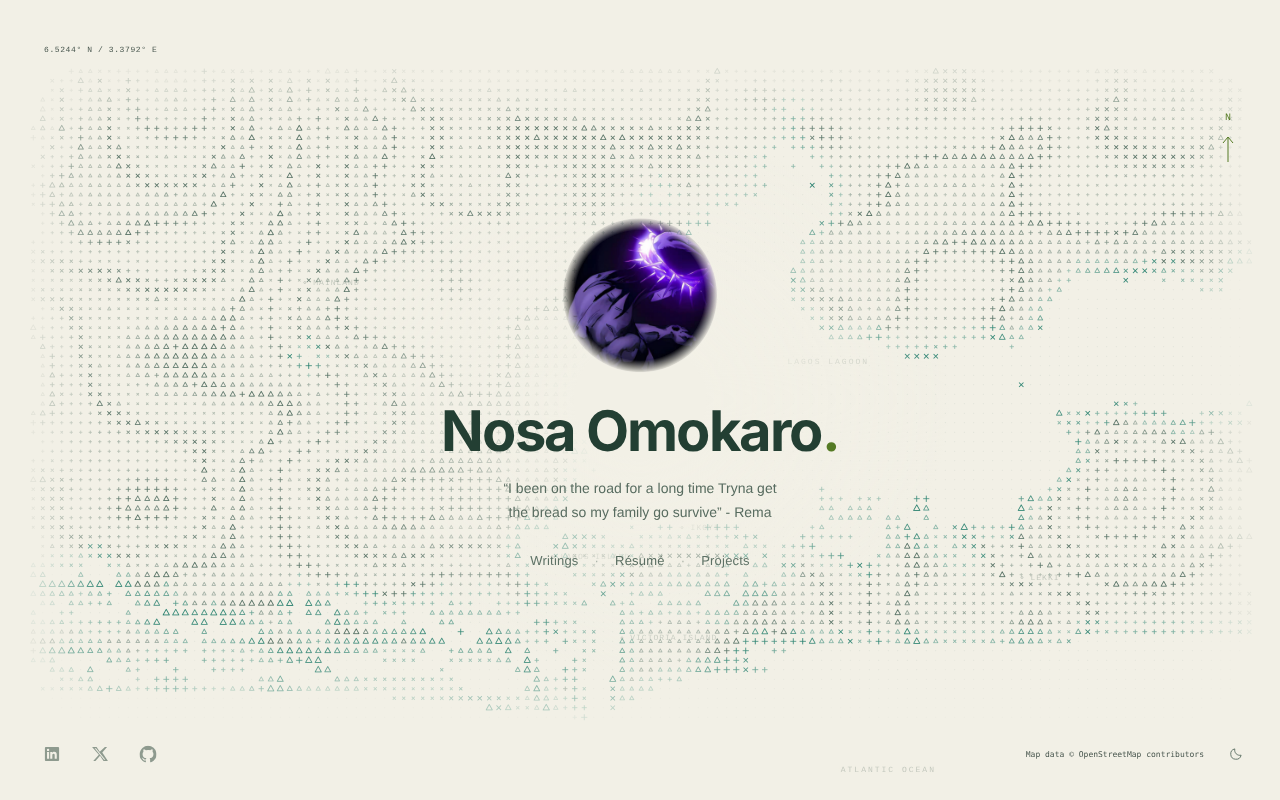
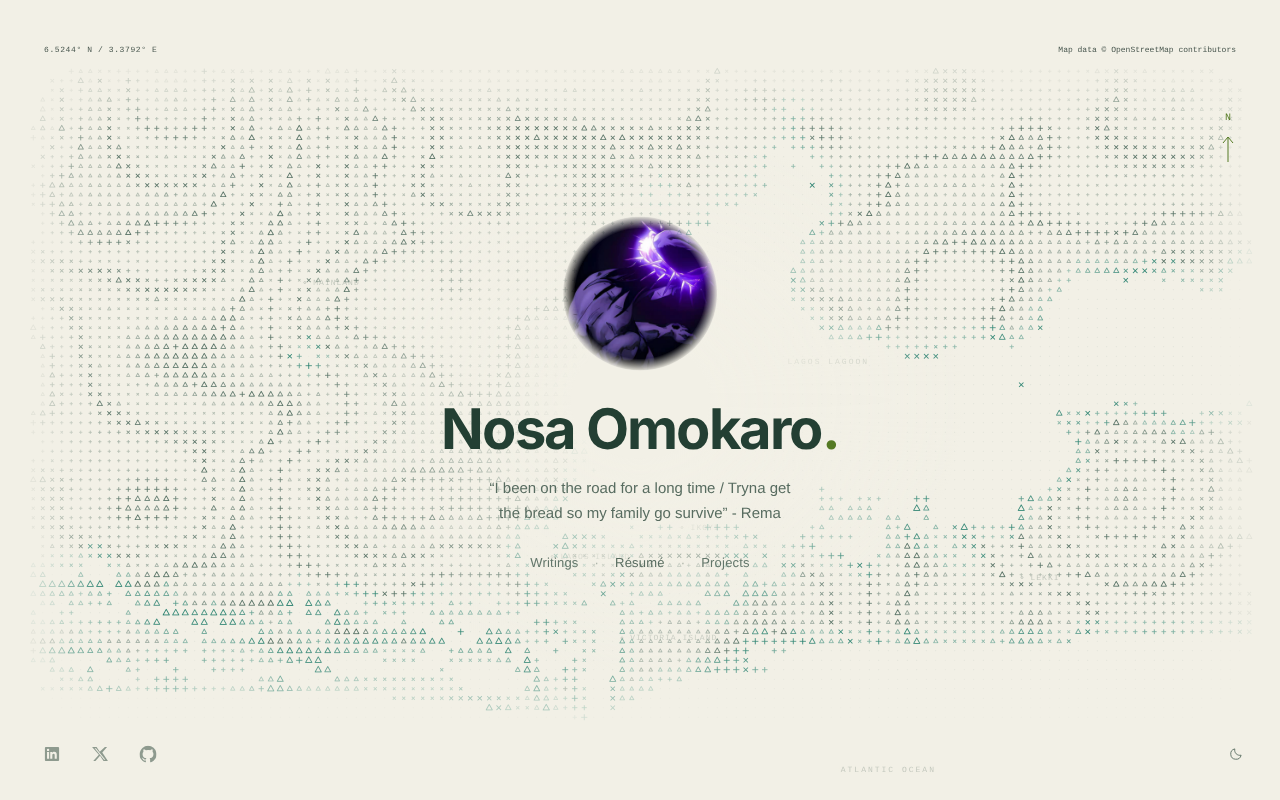
Rotate intros without repeats, hide test content, and reposition attribution

diff --git a/src/lib/intro-cycle.ts b/src/lib/intro-cycle.ts
@@ -1,0 +1,37 @@
+export interface IntroHistory {
+  version: 1;
+  seen: string[];
+  last: string | null;
+}
+
+export const introKey = (text: string) => text.replace(/\s+/g, ' ').trim();
+
+// Keep history by text rather than position so edits, reordering, and new lines
+// do not reset the visitor's progress through the remaining options.
+export function nextIntro(
+  texts: readonly string[],
+  previous: unknown,
+  random: () => number = Math.random,
+): { intro: string | null; history: IntroHistory } {
+  const options = [...new Set(texts.map(introKey).filter(Boolean))];
+  const known = new Set(options);
+  const saved = previous && typeof previous === 'object' && 'version' in previous && previous.version === 1
+    ? previous as Partial<IntroHistory>
+    : {};
+  let seen = Array.isArray(saved.seen)
+    ? [...new Set(saved.seen.filter((text): text is string => typeof text === 'string' && known.has(text)))]
+    : [];
+  const last = typeof saved.last === 'string' && known.has(saved.last) ? saved.last : null;
+  let remaining = options.filter((text) => !seen.includes(text));
+  if (remaining.length === 0) {
+    seen = [];
+    remaining = options;
+  }
+  // The final line of one round must not immediately open the next round.
+  const candidates = remaining.length > 1 ? remaining.filter((text) => text !== last) : remaining;
+  const intro = candidates[Math.floor(random() * candidates.length)] ?? null;
+  return {
+    intro,
+    history: { version: 1, seen: intro ? [...seen, intro] : seen, last: intro },
+  };
+}

diff --git a/README.md b/README.md
@@ -8,7 +8,7 @@ Pluses, crosses, triangles, and dots replace conventional map fills and contour 
 Requires Node 22.12+ and pnpm 11.17.0 (pinned in `package.json`). Install the locked dependencies with
 `pnpm install --frozen-lockfile`, then run `pnpm dev`. `pnpm build` produces
 the static site in `dist/`; `pnpm preview` serves that build locally.
-Run `pnpm check` for Astro and TypeScript diagnostics. Commit `pnpm-lock.yaml`
+Run `pnpm check` for Astro and TypeScript diagnostics and `pnpm test` for intro-rotation tests. Commit `pnpm-lock.yaml`
 with dependency changes; pnpm is the package manager for this repository.
 
 ## Background
@@ -33,16 +33,27 @@ The resting field is cached. A spatial grid limits interaction queries, and only
 changed canvas tiles are restored. Vector paths are grouped by color and opacity;
 frames stop when the bounded particles and pulses settle. No animation framework
 or runtime dependency is needed.
-The bottom-right theme button switches between dark green and paper palettes. Decorative labels do not select while drawing; foreground links and controls remain interactive.
+The bottom-right theme button switches between dark green and paper palettes.
+OpenStreetMap attribution stays at the top right, opposite the coordinates. Decorative labels do not select while drawing; foreground links and controls remain interactive.
 
 ## Homepage introduction
 
 Edit `src/content/profile-intros.md`: each top-level Markdown bullet is one possible
-line below the name. Add as many as you like. One is chosen randomly each time the
-homepage opens, including when returning through site navigation; it stays still
-while you read. Markdown emphasis and links work. Without JavaScript, the first
+line below the name. Add as many as you like (100+ are supported). Each browser
+remembers which intros it has seen in local storage. Every distinct,
+non-empty line is shown once before a new random round starts, including visits
+through site navigation. The last intro of a round cannot immediately repeat at
+the start of the next (unless only one intro exists). The selected line stays
+still while you read. New lines join the unseen pool; reordering and removing
+lines preserve progress. Duplicate text and empty bullets are ignored.
+
+History is local to the browser and origin, so different browsers/devices start
+independently. Clearing site storage resets progress. If storage is blocked,
+rotation still works during client navigation but cannot persist across reloads.
+Markdown emphasis and links work. Without JavaScript, the first
 line is shown. Keep options short (one or two lines on a phone) and rebuild/deploy
-to publish changes. The included lines are placeholders you can replace.
+to publish changes. The current batch is the owner’s writing; add more bullets
+to grow the collection.
 
 The name uses a locally bundled Inter variable font on the homepage and section
 headers so its glyphs and weight do not depend on fonts installed on the device.
@@ -74,11 +85,14 @@ alt text and image dimensions. The page already supplies the title, so start bod
 headings at `##`.
 
 Set `draft: false` (or omit it) to publish. Drafts have **no public route** and do
-not appear in lists, including in development. `first-note.md` is an unpublished
-starter to replace with your own writing. A published sample, `a-little-room-for-curiosity.md`,
-is included for testing the reading layout. The portfolio case study is also sample
-copy, with local screenshots in `public/images/lagos/`. Replace or remove these
-samples when your real content is ready.
+not appear in lists, including in development. The two sample fixtures are
+`src/content/writings/test.md` and `src/content/projects/test.md`, both marked
+`draft: true`. The public sections remain empty until you publish real content.
+To inspect a sample, temporarily set its draft flag to false and rebuild, then
+open `/writings/test/` or `/projects/test/`. Restore `draft: true` afterward.
+The samples include images, captions, lists, quotes, code, and a table; local
+screenshots live in `public/images/lagos/`. Copy a sample to a descriptive filename
+and replace its title and content when publishing your own work.
 There is a designed empty state when a collection has no published entries.
 
 Projects accept these additional optional frontmatter fields:

diff --git a/src/content/writings/test.md b/src/content/writings/test.md
@@ -1,8 +1,8 @@
 ---
-title: "A little room for curiosity"
+title: "Test writing: A little room for curiosity"
 description: "A sample note on quiet interfaces, small interactions, and knowing when to leave things alone."
 date: 2026-10-17
-draft: false
+draft: true
 ---
 *Sample writing for testing the reading layout. Replace or remove this piece when your own writing is ready.*
 
@@ -56,10 +56,10 @@ If the page feels good in those quieter moments, the interactive parts have a be
 The publishing side follows the same principle. A small Markdown file is enough to give a piece a title, a summary, and a place on the site:
 
 ```yaml
-title: "A little room for curiosity"
+title: "Test writing: A little room for curiosity"
 description: "A note about making space."
 date: 2026-10-17
-draft: false
+draft: true
 ```
 
 The rest is just writing. A `##` introduces a section; a link connects an idea to another page; an image gives the reader a pause. The layout takes care of the presentation.
@@ -68,4 +68,4 @@ The rest is just writing. A `##` introduces a section; a link connects an idea t
 
 There is more to try here, but it does not all need to happen at once. Sometimes the best next change is the one that gives what is already there a little more room.
 
-For the visual side of this experiment, see [Lagos, in little shapes](/projects/lagos-portfolio/).
+For the visual side of this experiment, see [Lagos, in little shapes](/projects/test/).

diff --git a/src/content/projects/test.md b/src/content/projects/test.md
@@ -1,7 +1,8 @@
 ---
-title: "Lagos, in little shapes"
+title: "Test project: Lagos, in little shapes"
 description: "Turning a familiar coastline into a small, playable corner of the internet."
 date: 2026-10-17
+draft: true
 featured: true
 preview:
   src: "/images/lagos/dark-desktop.png"
@@ -68,4 +69,4 @@ The content takes a different approach: ordinary Markdown files become static pa
 
 This is a foundation for a portfolio that can grow one piece at a time. The next test is simple: add real writing, add real projects, and see whether the background still knows when to be quiet.
 
-Read the companion sample, [A little room for curiosity](/writings/a-little-room-for-curiosity/), or [return to the map](/).
+Read the companion sample, [A little room for curiosity](/writings/test/), or [return to the map](/).
